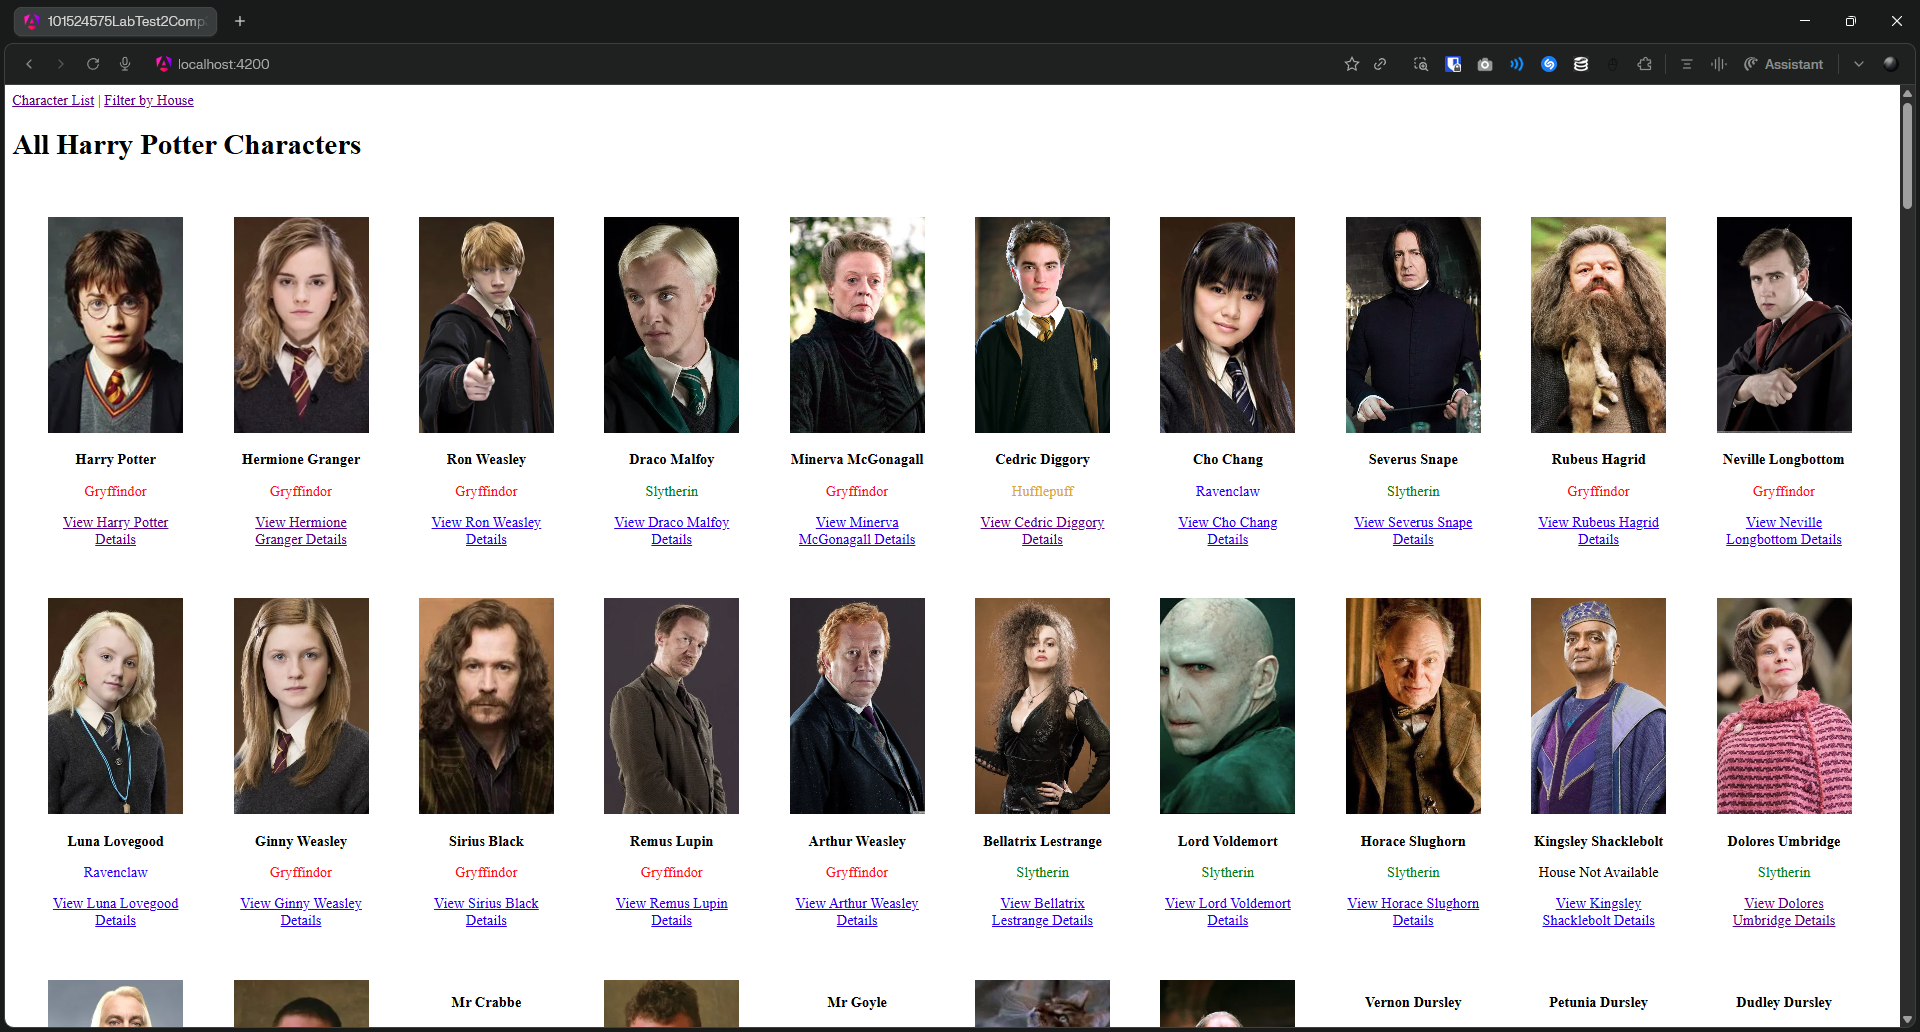
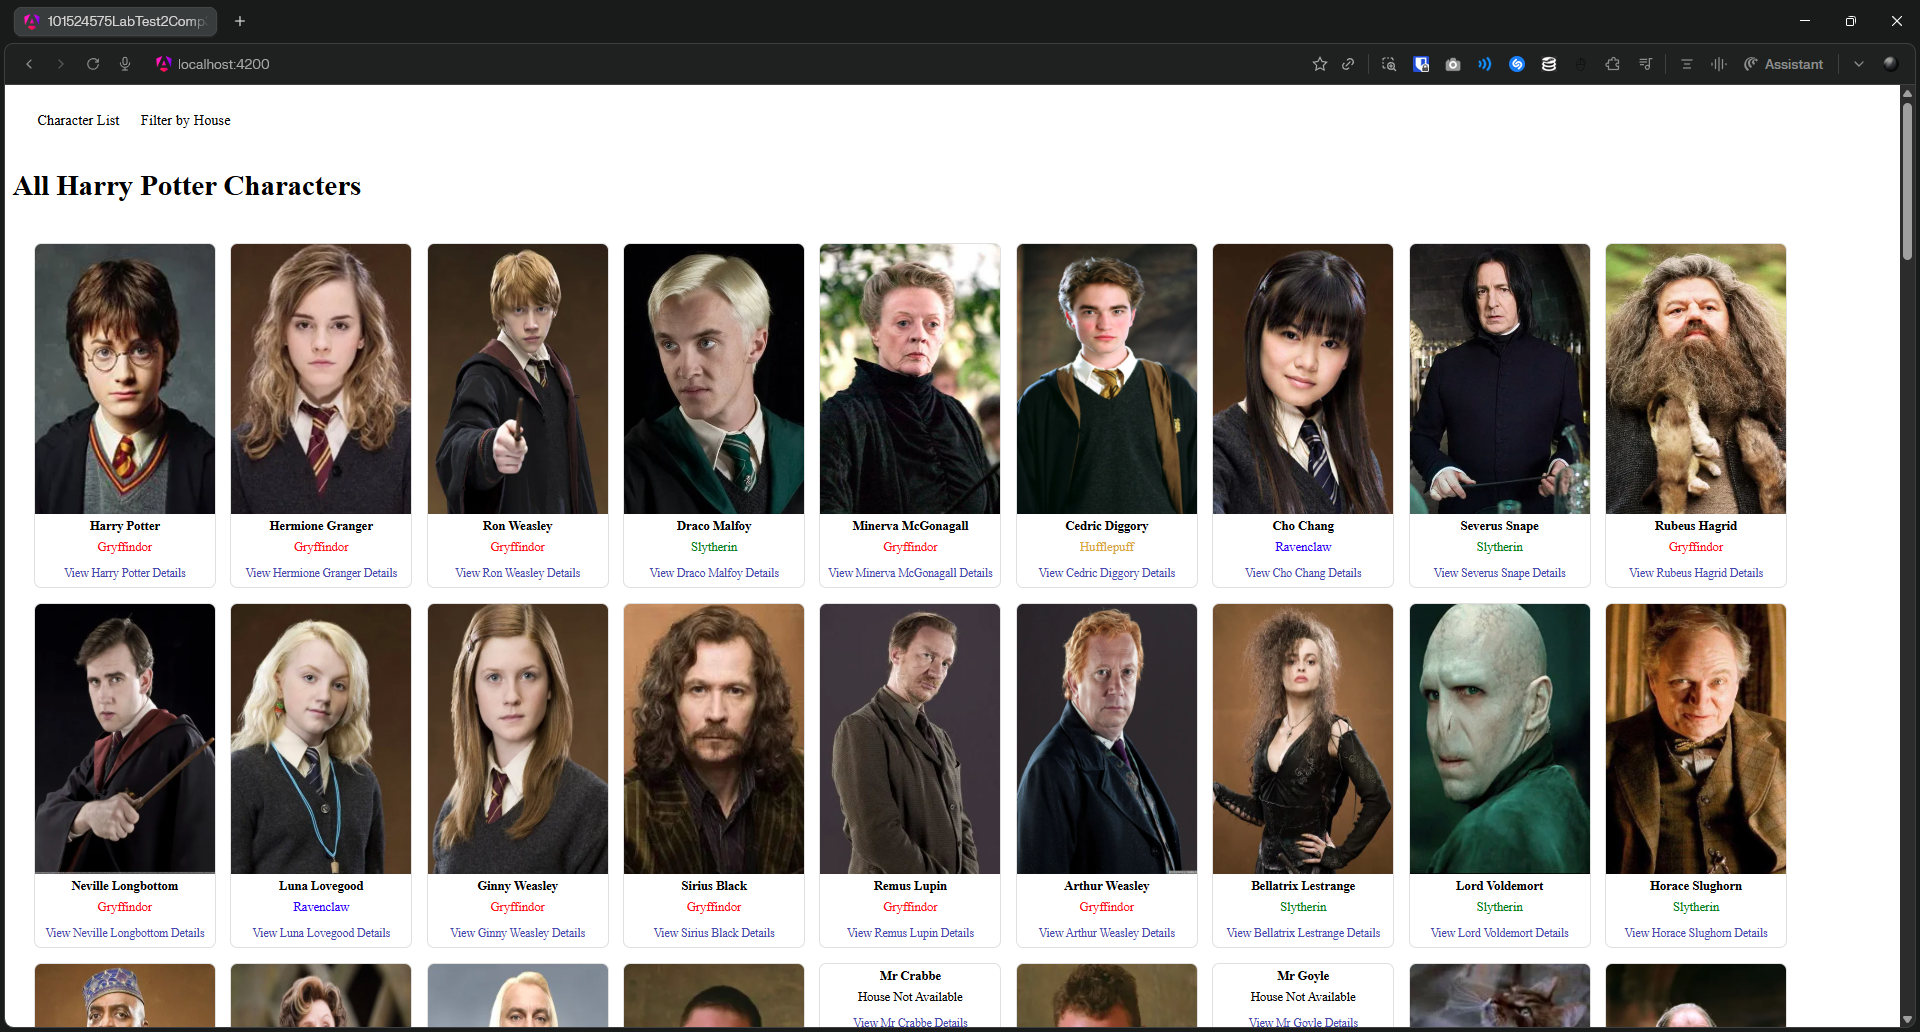
add usage of Angular Material

diff --git a/src/material-theme.scss b/src/material-theme.scss
@@ -1,0 +1,38 @@
+// Include theming for Angular Material with `mat.theme()`.
+// This Sass mixin will define CSS variables that are used for styling Angular Material
+// components according to the Material 3 design spec.
+// Learn more about theming and how to use it for your application's
+// custom components at https://material.angular.dev/guide/theming
+@use '@angular/material' as mat;
+
+html {
+  height: 100%;
+  @include mat.theme(
+    (
+      color: (
+        primary: mat.$cyan-palette,
+        tertiary: mat.$orange-palette,
+      ),
+      typography: Roboto,
+      density: 0,
+    )
+  );
+}
+
+body {
+  // Default the application to a light color theme. This can be changed to
+  // `dark` to enable the dark color theme, or to `light dark` to defer to the
+  // user's system settings.
+  color-scheme: light;
+
+  // Set a default background, font and text colors for the application using
+  // Angular Material's system-level CSS variables. Learn more about these
+  // variables at https://material.angular.dev/guide/system-variables
+  background-color: var(--mat-sys-surface);
+  color: var(--mat-sys-on-surface);
+  font: var(--mat-sys-body-medium);
+
+  // Reset the user agent margin.
+  margin: 0;
+  height: 100%;
+}

diff --git a/src/app/components/characterdetails/characterdetails.html b/src/app/components/characterdetails/characterdetails.html
@@ -3,14 +3,14 @@
     <img [src]="character()!.image" [alt]="character()!.name" />
     <div class="info">
       <h2>{{ character()!.name }}</h2>
-      <p>House: {{ character()!.house || 'Unknown' }}</p>
-      <p>Actor: {{ character()!.actor }}</p>
-      <p>Wizard: {{ character()!.wizard }}</p>
-      <p>Species: {{ character()!.species }}</p>
-      <p>Ancestry: {{ character()!.ancestry }}</p>
-      <p>Wand Wood: {{ character()!.wand.wood || 'Unknown' }}</p>
-      <p>Wand Core: {{ character()!.wand.core || 'Unknown' }}</p>
-      <p>Wand Length: {{ character()!.wand.length || 'Unknown' }}</p>
+      <p><strong>House:</strong> {{ character()!.house || 'Unknown' }}</p>
+      <p><strong>Actor:</strong> {{ character()!.actor }}</p>
+      <p><strong>Wizard:</strong> {{ character()!.wizard }}</p>
+      <p><strong>Species:</strong> {{ character()!.species }}</p>
+      <p><strong>Ancestry:</strong> {{ character()!.ancestry }}</p>
+      <p><strong>Wand Wood:</strong> {{ character()!.wand.wood || 'Unknown' }}</p>
+      <p><strong>Wand Core:</strong> {{ character()!.wand.core || 'Unknown' }}</p>
+      <p><strong>Wand Length:</strong> {{ character()!.wand.length || 'Unknown' }}</p>
     </div>
   </div>
 }

diff --git a/src/app/components/characterfilter/characterfilter.html b/src/app/components/characterfilter/characterfilter.html
@@ -1,10 +1,13 @@
 <h1>Harry Potter Characters Filtered by House</h1>
 
-<select [value]="selectedHouse()" (change)="onHouseChange($any($event.target).value)">
-  @for (house of houses; track house) {
-    <option [value]="house">{{ house }}</option>
-  }
-</select>
+<mat-form-field>
+  <mat-label>Select House</mat-label>
+  <mat-select [value]="selectedHouse()" (selectionChange)="onHouseChange($event.value)">
+    @for (house of houses; track house) {
+      <mat-option [value]="house">{{ house }}</mat-option>
+    }
+  </mat-select>
+</mat-form-field>
 
 <div class="grid">
   @for (character of characters(); track character.id) {
@@ -12,12 +15,12 @@
       @if (character.image) {
         <img [src]="character.image" [alt]="character.name" />
       } @else {
-        <div class="no-image">No Image Available</div>
+        <div class="no-image">No Image</div>
       }
       <p><strong>{{ character.name }}</strong></p>
       <p>Actor: {{ character.actor }}</p>
       <p style="color: green;">{{ character.house }}</p>
-      <a [routerLink]="['/character', character.id]">View Details</a>
+      <a [routerLink]="['/character', character.id]">View {{ character.name }} Details</a>
     </div>
   }
 </div>

diff --git a/src/index.html b/src/index.html
@@ -1,13 +1,20 @@
 <!doctype html>
 <html lang="en">
-<head>
-  <meta charset="utf-8">
-  <title>101524575LabTest2Comp3133</title>
-  <base href="/">
-  <meta name="viewport" content="width=device-width, initial-scale=1">
-  <link rel="icon" type="image/x-icon" href="favicon.ico">
-</head>
-<body>
-  <app-root></app-root>
-</body>
+  <head>
+    <meta charset="utf-8" />
+    <title>101524575LabTest2Comp3133</title>
+    <base href="/" />
+    <meta name="viewport" content="width=device-width, initial-scale=1" />
+    <link rel="icon" type="image/x-icon" href="favicon.ico" />
+    <link rel="preconnect" href="https://fonts.googleapis.com" />
+    <link rel="preconnect" href="https://fonts.gstatic.com" crossorigin />
+    <link
+      href="https://fonts.googleapis.com/css2?family=Roboto:wght@300;400;500&display=swap"
+      rel="stylesheet"
+    />
+    <link href="https://fonts.googleapis.com/icon?family=Material+Icons" rel="stylesheet" />
+  </head>
+  <body>
+    <app-root></app-root>
+  </body>
 </html>

diff --git a/src/app/components/characterfilter/characterfilter.css b/src/app/components/characterfilter/characterfilter.css
@@ -1,23 +1,49 @@
 .grid {
   display: flex;
   flex-wrap: wrap;
-  gap: 24px;
+  gap: 16px;
   padding: 24px;
 }
+
 .card {
-  width: 150px;
+  width: 200px;
   text-align: center;
-  padding: 16px;
+  border: 1px solid #e0e0e0;
+  border-radius: 8px;
+  overflow: hidden;
 }
+
 .card img {
-  width: 150px;
-  height: 240px;
+  width: 200px;
+  height: 300px;
   object-fit: cover;
+  display: block;
 }
+
 .no-image {
-  width: 150px;
-  height: 240px;
+  width: 200px;
+  height: 300px;
+  background: #f5f5f5;
   display: flex;
   align-items: center;
   justify-content: center;
+  color: #9e9e9e;
+  font-size: 14px;
+}
+
+.card p {
+  margin: 6px 8px;
+  font-size: 14px;
+}
+
+.card a {
+  display: inline-block;
+  margin: 8px 0;
+  font-size: 13px;
+  color: #3f51b5;
+  text-decoration: none;
+}
+
+.card a:hover {
+  text-decoration: underline;
 }

diff --git a/src/app/components/characterlist/characterlist.css b/src/app/components/characterlist/characterlist.css
@@ -1,23 +1,48 @@
 .grid {
   display: flex;
   flex-wrap: wrap;
-  gap: 24px;
+  gap: 16px;
   padding: 24px;
 }
+
 .card {
-  width: 150px;
+  width: 200px;
   text-align: center;
-  padding: 16px;
+  border: 1px solid #e0e0e0;
+  border-radius: 8px;
+  overflow: hidden;
 }
+
 .card img {
-  width: 150px;
-  height: 240px;
-  object-fit: cover;
+  width: 200px;
+  height: 300px;
+  display: block;
 }
+
 .no-image {
-  width: 150px;
-  height: 240px;
+  width: 200px;
+  height: 300px;
+  background: #f5f5f5;
   display: flex;
   align-items: center;
   justify-content: center;
+  color: #9e9e9e;
+  font-size: 14px;
+}
+
+.card p {
+  margin: 6px 8px;
+  font-size: 14px;
+}
+
+.card a {
+  display: inline-block;
+  margin: 8px 0;
+  font-size: 13px;
+  color: #3f51b5;
+  text-decoration: none;
+}
+
+.card a:hover {
+  text-decoration: underline;
 }

diff --git a/src/app/components/characterfilter/characterfilter.ts b/src/app/components/characterfilter/characterfilter.ts
@@ -3,11 +3,13 @@ import { FormsModule } from '@angular/forms';
 import { RouterLink } from '@angular/router';
 import { CharacterService } from '../../services/character';
 import { Character } from '../../models/character';
+import { MatSelectModule } from '@angular/material/select';
+import { MatFormFieldModule } from '@angular/material/form-field';
 
 @Component({
   selector: 'app-characterfilter',
   standalone: true,
-  imports: [FormsModule, RouterLink],
+  imports: [FormsModule, RouterLink, MatSelectModule, MatFormFieldModule],
   templateUrl: './characterfilter.html',
   styleUrl: './characterfilter.css'
 })

diff --git a/src/app/components/characterdetails/characterdetails.css b/src/app/components/characterdetails/characterdetails.css
@@ -1,13 +1,33 @@
 .details {
   display: flex;
-  gap: 24px;
-  padding: 24px;
+  gap: 32px;
+  padding: 32px;
+  background: #fafafa;
+  margin: 24px;
+  border-radius: 8px;
+  box-shadow: 0 2px 8px rgba(0,0,0,0.1);
+  max-width: 1000px;
+  margin: 0 auto;
 }
+
 .details img {
   width: 250px;
   height: 350px;
-  object-fit: cover;
+  border-radius: 8px;
+  box-shadow: 0 2px 6px rgba(0,0,0,0.2);
 }
+
+.info h2 {
+  margin-top: 0;
+  color: #3f51b5;
+}
+
 .info p {
-  margin: 6px 0;
+  margin: 8px 0;
+  font-size: 15px;
+  color: #333;
+}
+
+.info p strong {
+  color: #555;
 }

diff --git a/src/app/app.ts b/src/app/app.ts
@@ -1,9 +1,12 @@
 import { Component, signal } from '@angular/core';
 import { RouterOutlet, RouterLink } from '@angular/router';
+import { MatToolbarModule } from '@angular/material/toolbar';
+import { MatButtonModule } from '@angular/material/button';
 
 @Component({
   selector: 'app-root',
-  imports: [RouterOutlet, RouterLink],
+  standalone: true,
+  imports: [RouterOutlet, RouterLink, MatToolbarModule, MatButtonModule],
   templateUrl: './app.html',
   styleUrl: './app.css'
 })

diff --git a/src/app/app.html b/src/app/app.html
@@ -1,5 +1,5 @@
-<nav>
-  <a routerLink="/">Character List</a> |
-  <a routerLink="/filter">Filter by House</a>
-</nav>
+<mat-toolbar color="primary">
+  <a mat-button routerLink="/">Character List</a>
+  <a mat-button routerLink="/filter">Filter by House</a>
+</mat-toolbar>
 <router-outlet></router-outlet>
